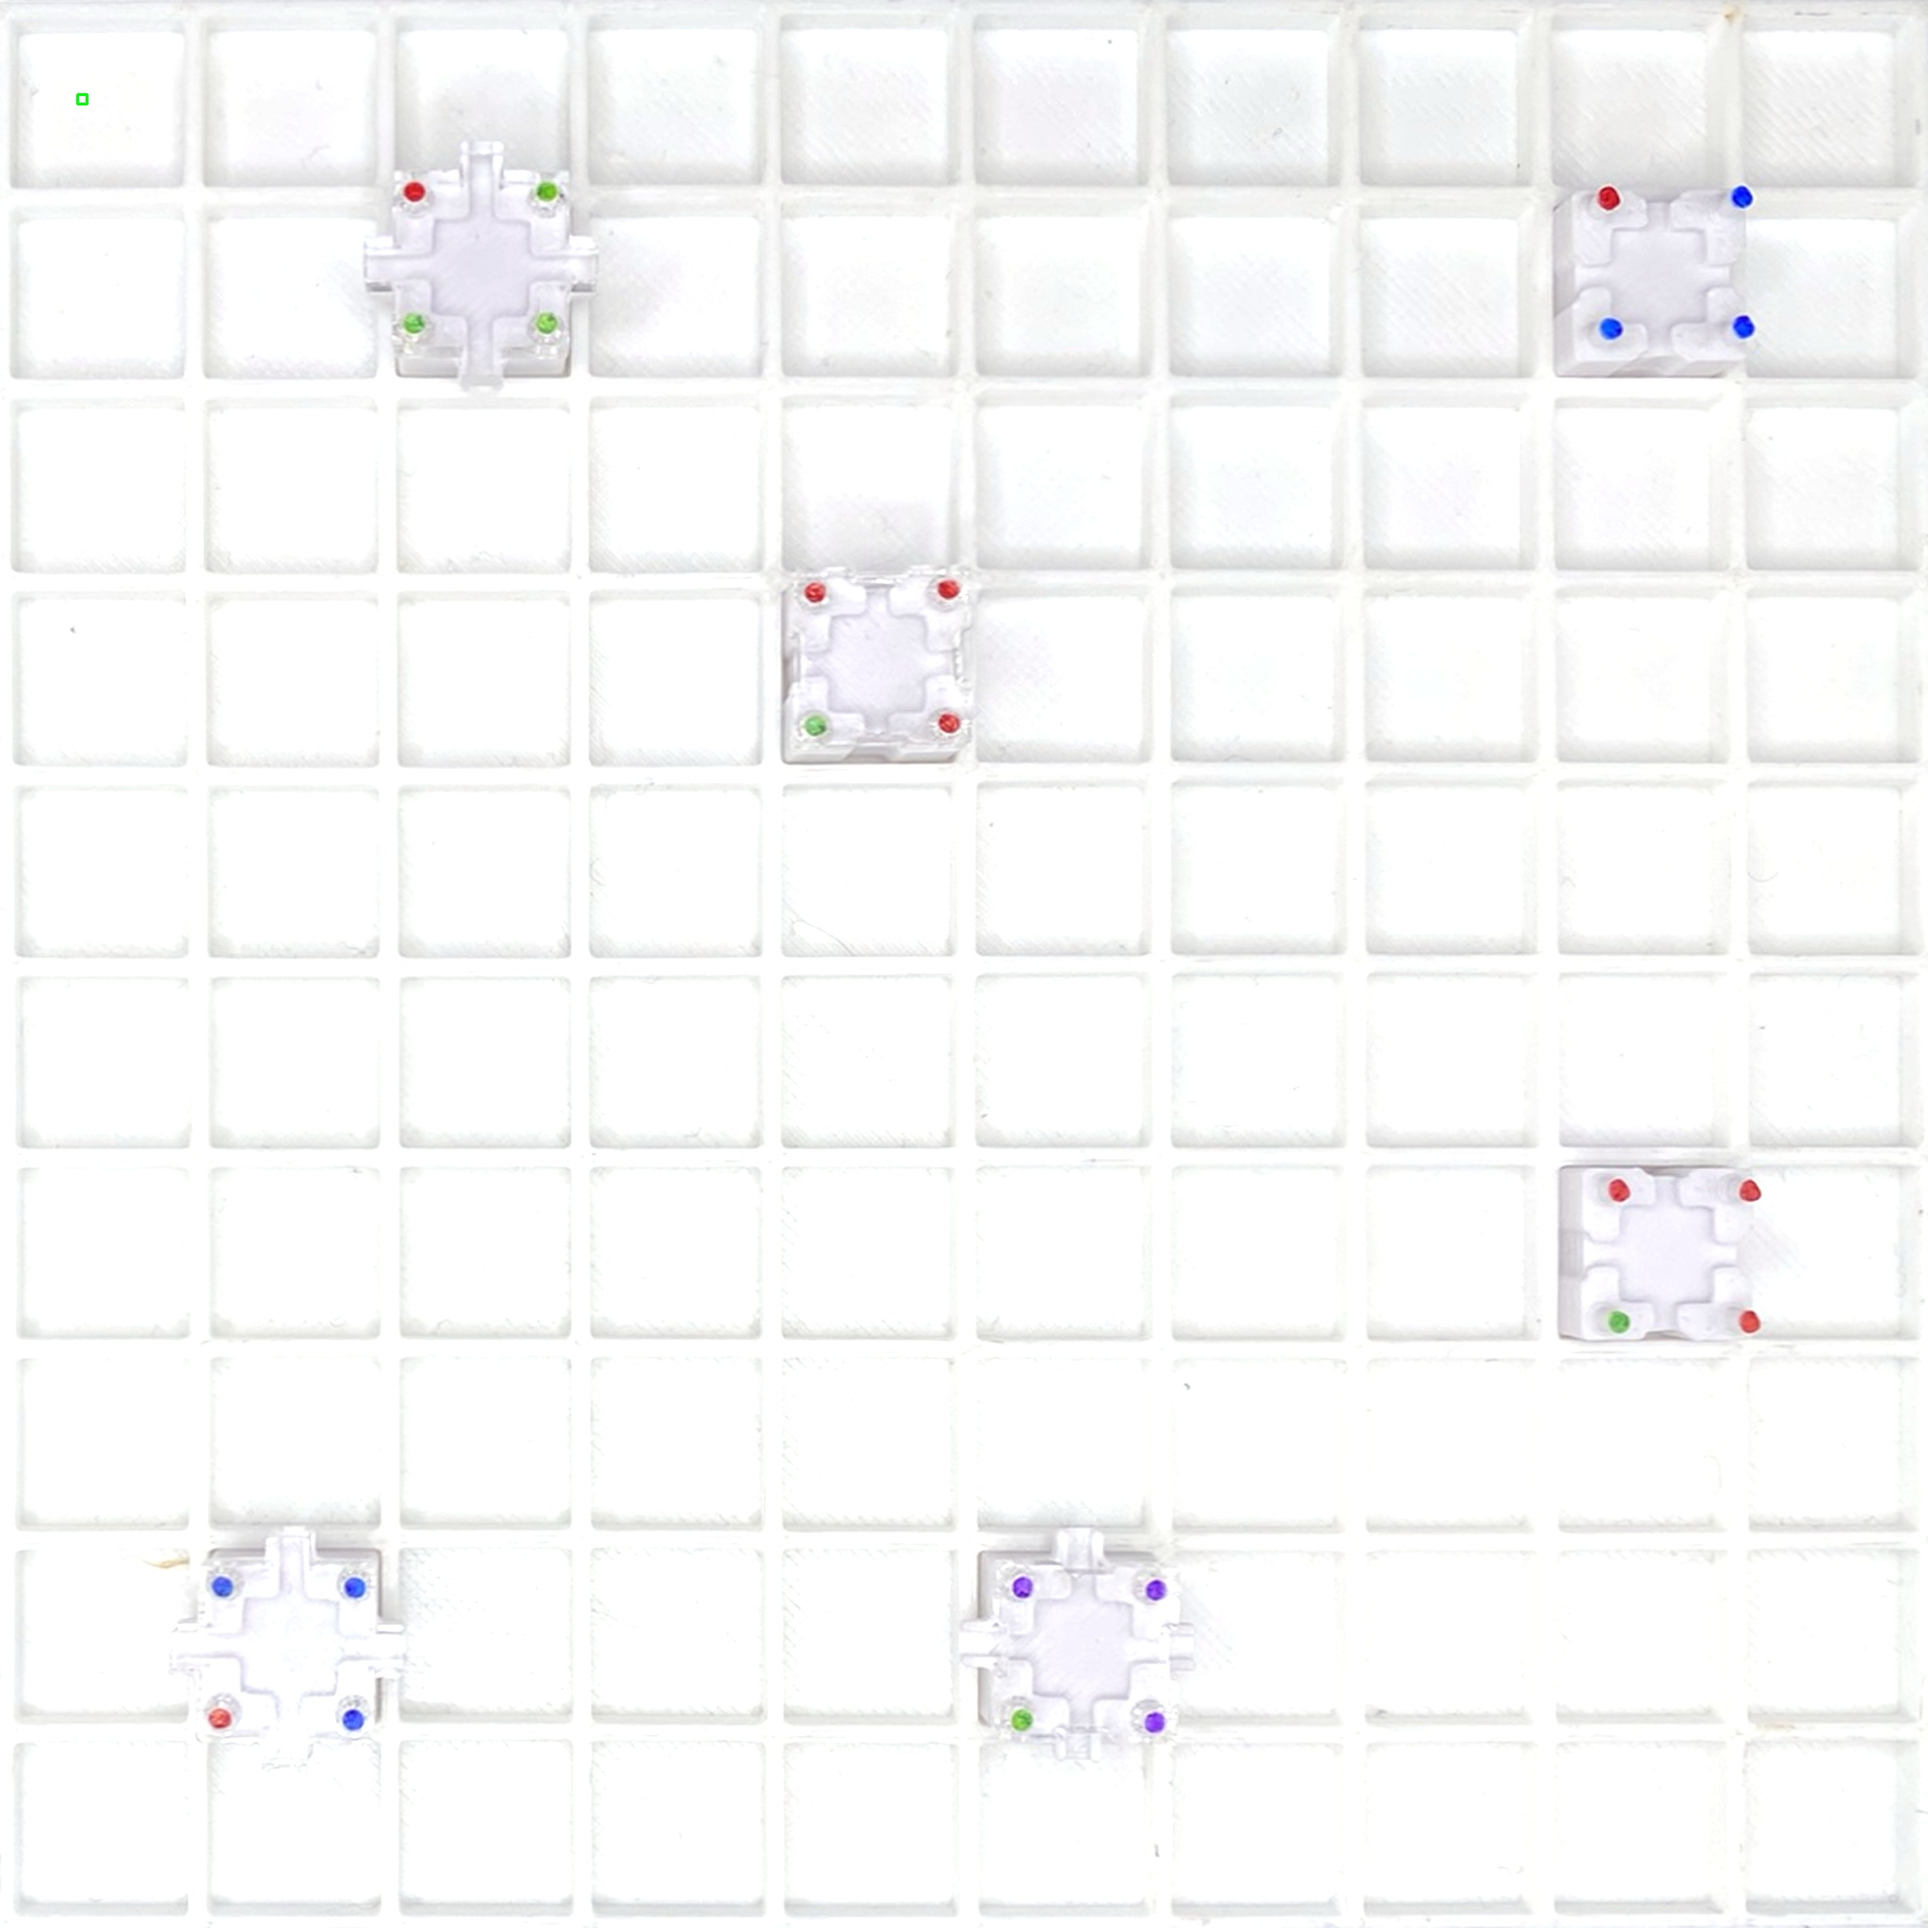
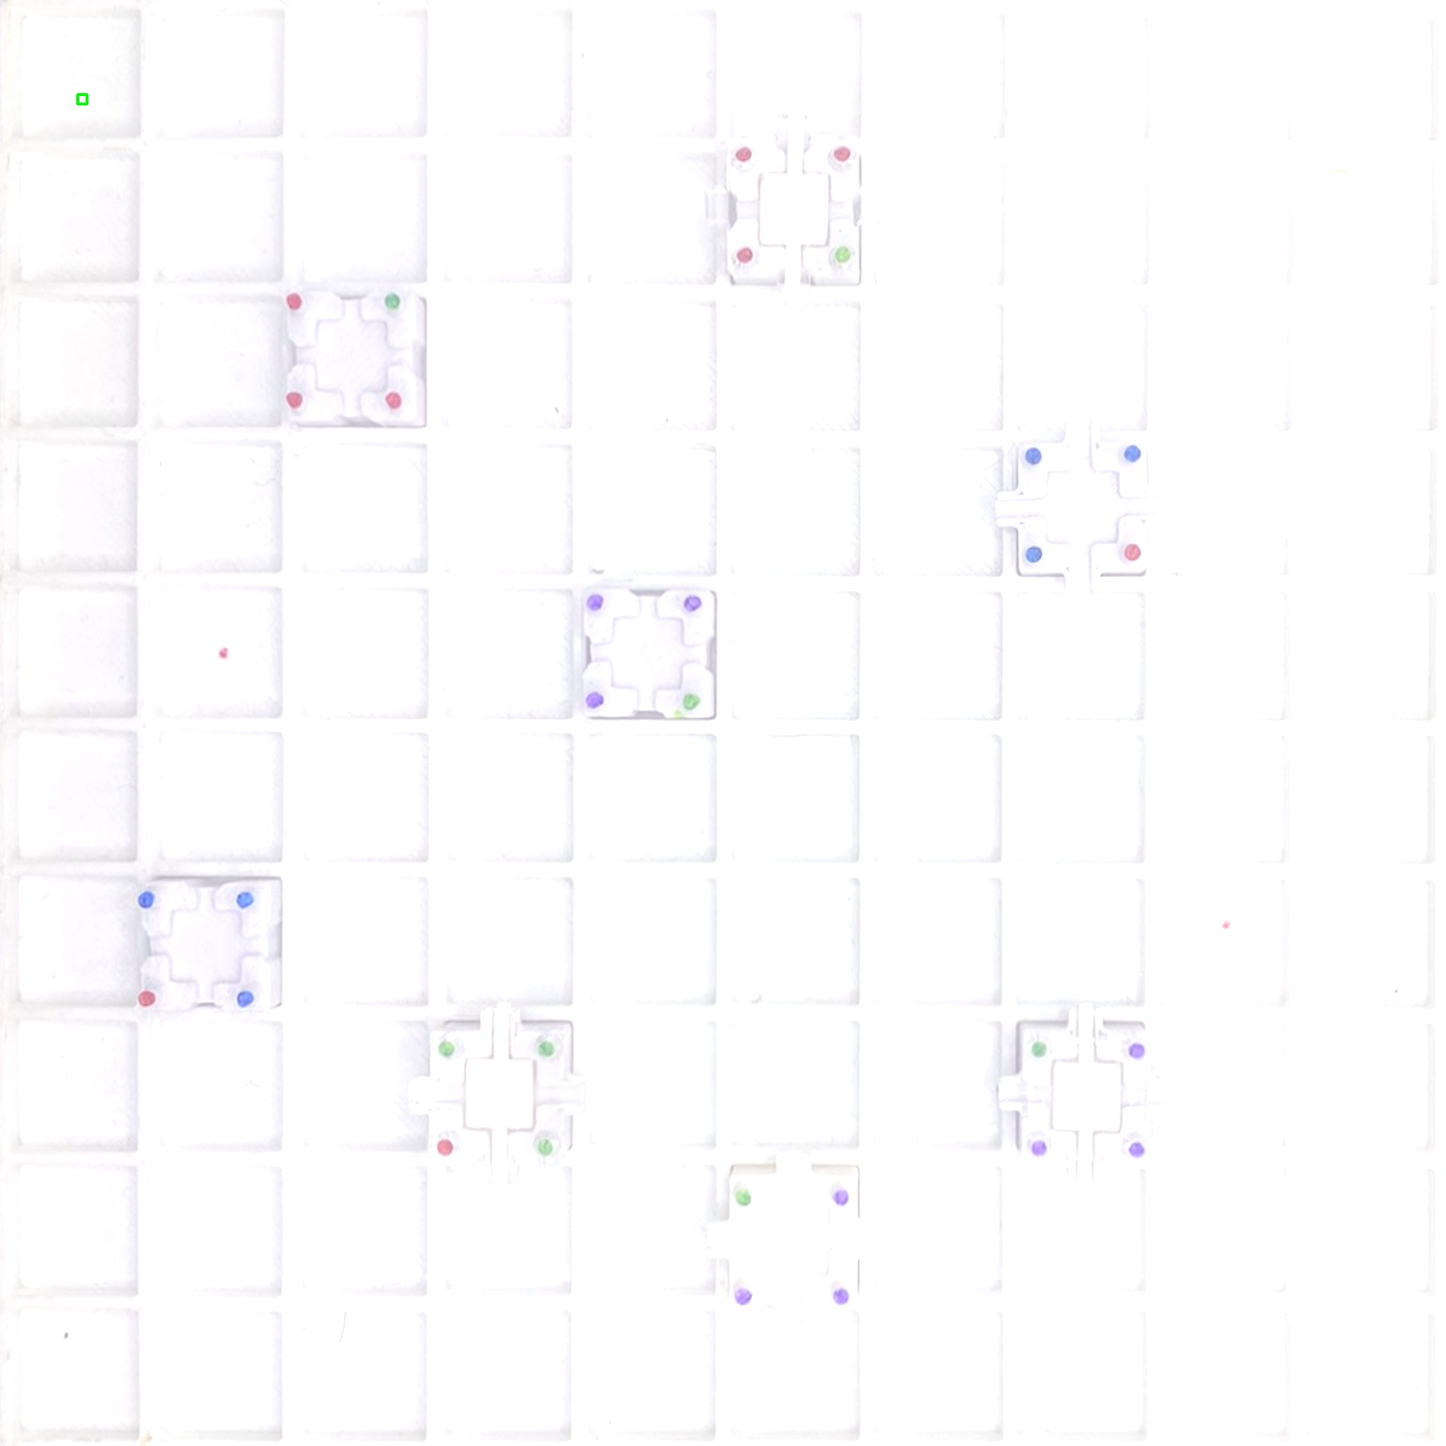
deleted old files, adjusted color ranges, adjusted whatcornerisiton()

diff --git a/src/objs/Square.py b/src/objs/Square.py
@@ -212,14 +212,17 @@ class Square:
                     return corn[i]
             i += 1
 
+        #print(f"Contour not in any corner: {x,y}")
+
 
         # might be unecessary after corner skewing
         i =0
         for corner in self.corners:
-            if x + 5 >= corner[0][0] and x - 5 <= corner[1][0]:
-                if y + 5  >= corner[0][1] and y - 5  <= corner[1][1]:
+            if x + (2*self.PLUS_MINUS) >= corner[0][0] and x - (2*self.PLUS_MINUS) <= corner[1][0]:
+                if y + (2*self.PLUS_MINUS)  >= corner[0][1] and y - (2*self.PLUS_MINUS)  <= corner[1][1]:
                     return corn[i]
             i += 1
+
 
 
     def get_rgb_avg_of_contour(self, contour:MatLike, corner:list[MatLike]='', print_flag:int = 1):
@@ -240,7 +243,7 @@ class Square:
         # copy the image
         image = self.img.copy()
 
-        #image = cv.cvtColor(image_copy, cv.COLOR_BGR2RGB)  # Convert to RGB format
+        image = cv.cvtColor(image, cv.COLOR_BGR2RGB)  # Convert to RGB format
 
         (x, y), radius = cv.minEnclosingCircle(contour)
 
@@ -268,24 +271,6 @@ class Square:
 
         return [round(x) for x in average_rgb ]
 
-        """
-        mask = np.zeros(image.shape[:2], dtype=np.uint8)  # Create a mask with the same height and width as the image
-        cv.drawContours(mask, [contour], 0, (255), -1)  # Fill the contour on the mask
-
-        # Extract the pixels inside the contour
-        pixels_inside = image[mask == 255]
-
-        # Calculate the average RGB values
-        average_rgb = np.mean(pixels_inside, axis=0)
-        
-        # Remove NaN values 
-        average_rgb = np.nan_to_num(average_rgb)
-
-        if print_flag:
-            print(f"     {corner}: ", [round(x) for x in average_rgb ])
-
-        return [round(x) for x in average_rgb ]
-        """
 
 
     def get_pins_rgb(self, pf=1):
@@ -327,7 +312,8 @@ class Square:
         for key in ["top_left", "top_right", "bottom_left", "bottom_right"]:
             try: 
                 sequence.append(pins_rgb[corner_key.index(key)]) 
-            except:
+            except ValueError:
+                print(f"Key {key} not found in {corner_key}")
                 sequence.append((0,0,0))
 
 

diff --git a/src/backend/color_spaces_visual.py b/src/backend/color_spaces_visual.py
@@ -12,9 +12,9 @@ original_ranges = {
 """
 # Adjusted color ranges
 adjusted_ranges = {
-    "Red": {"min": (209-40,88-40,87-40), "max": (255,88+40,87+40)},
+    "Red": {"min": (209-40,0,87-60), "max": (255,88+40,87+40)},
     "Blue": {"min": (49-40,77-40,232-40), "max": (49+40,77+40,255)},
-    "Green": {"min": (135-40,191-40,110-40), "max": (135+40,255,110+40)},
+    "Green": {"min": (135-40,191-40,0), "max": (135+40,255,110+40)},
     "Purple": {"min": (140-40,78-40,224-40), "max": (140+40,78+40,224+40)},
     #"Red2": {"min" : (161,101,100), "max" : (200,125,150)},    
 }
@@ -85,10 +85,10 @@ for i, (color, range) in enumerate(adjusted_ranges.items()):
 
 # Add other custom points to the plot
 custom = {
-    "Red": (247, 95, 66),
-    "Blue": (235, 105, 79),
-    "Green": (245, 90, 73),
-    "Purple": (116, 119, 233)
+    "Red": (112, 179, 50),
+    "Red1": (204, 41, 51),
+    "Red2": (152, 211, 106),
+    "Green": (132, 202, 106)
 }
 
 i =0

diff --git a/src/backend/add_color_range.py b/src/backend/add_color_range.py
@@ -16,9 +16,9 @@ def add_color_range_to_db():
         ]"""
 
     post = [
-        {"color_name": "Red", "color#" : 1, "min" : (209-40,88-40,87-40), "max" : (255,88+40,87+40)},
+        {"color_name": "Red", "color#" : 1, "min" : (209-40,0,87-60), "max" : (255,88+40,87+40)},
         {"color_name": "Blue", "color#" : 2, "min" : (49-40,77-40,232-40), "max" : (49+40,77+40,255)},
-        {"color_name": "Green", "color#" : 3, "min" : (135-40,191-40,110-40), "max" : (135+40, 255,110+40)},
+        {"color_name": "Green", "color#" : 3, "min" : (135-40,191-40,0), "max" : (135+40, 255,110+40)},
         {"color_name": "Purple", "color#" : 4, "min" : (140-40,78-40,224-40), "max" :  (140+40,78+40,224+40)},
     ]
 

diff --git a/src/main.py b/src/main.py
@@ -52,7 +52,7 @@ def main(path_to_imgs):
         
 
 if __name__ == '__main__':
-    path_to_imgs =  r"C:\Users\Matheus\Desktop\NanoTechnologies_Lab\Phase A\data\Grid with block types- 01302024\IMG_5364.JPEG" #"C:\Users\Matheus\Desktop\NanoTechnologies_Lab\Phase A\data\img_5356"    #IMG_5020.JPEG
+    path_to_imgs =  r"C:\Users\Matheus\Desktop\NanoTechnologies_Lab\Phase A\data\New_images_022624\*" #"C:\Users\Matheus\Desktop\NanoTechnologies_Lab\Phase A\data\img_5356"    #IMG_5020.JPEG
     main(path_to_imgs)
 
     #path_new = r"C:\Users\Matheus\Desktop\NanoTechnologies_Lab\Phase A\data\grid_on_black_img\std_angle\IMG_5020.jpeg" 

diff --git a/src/Image/image.py b/src/Image/image.py
@@ -24,7 +24,7 @@ class Image:
     * resize_2_std : resize image to a standard size
     * show_steps : show the steps img_og -> img_resized -> img_scan
     """
-    def __init__(self, id: int, image_og: MatLike, resize_factor : float = 1):
+    def __init__(self, id: int, image_og: MatLike, resize_factor : float = .25):
         self.id = id
         
         self.img_og = image_og  # original image

diff --git a/src/backend/connect_to_db.py b/src/backend/connect_to_db.py
@@ -1,7 +1,10 @@
 from pymongo.mongo_client import MongoClient
 from pymongo.server_api import ServerApi
-from .secrets_ import URI
 
+try:
+    from secrets_ import URI
+except:
+    from .secrets_ import URI
 
 
 def connect_to_mongo():

diff --git a/src/backend/identify_block.py b/src/backend/identify_block.py
@@ -1,5 +1,4 @@
 from .connect_to_db import connect_to_mongo
-from itertools import permutations, combinations
 
 def identify_block(block):
 
